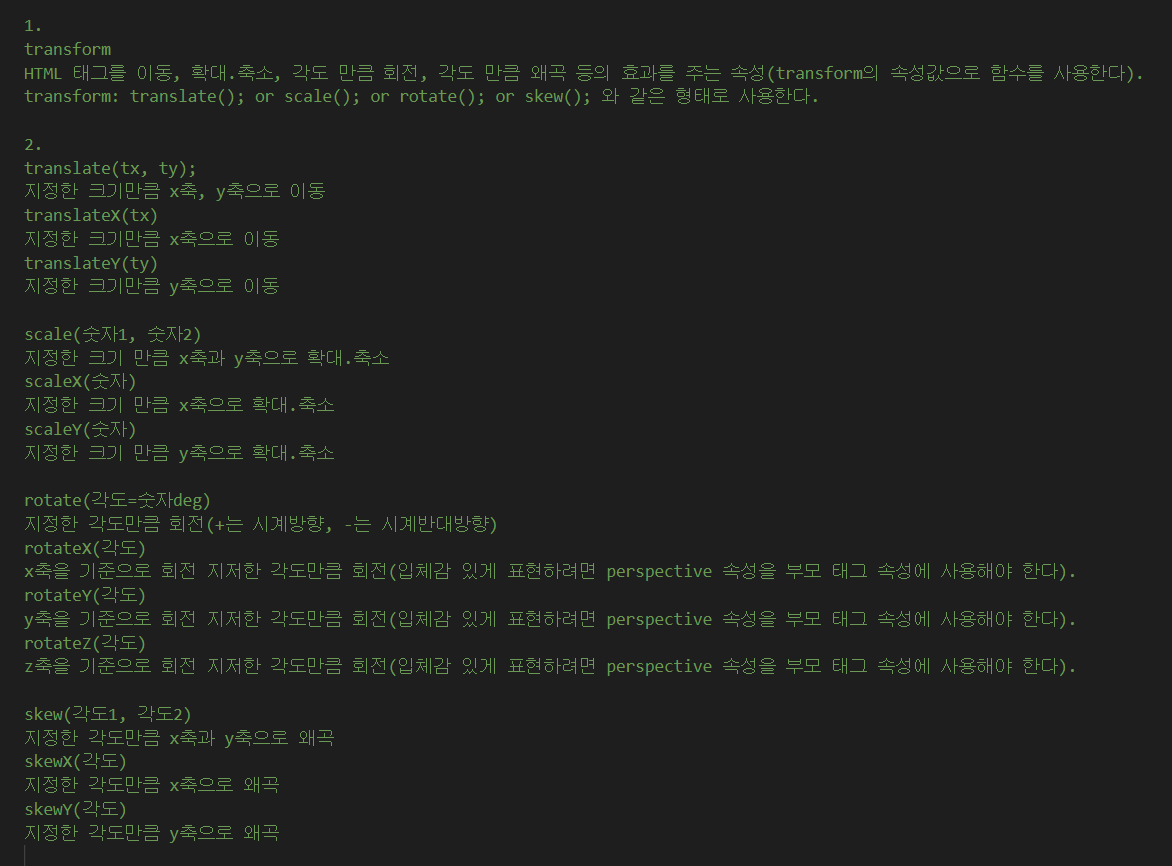
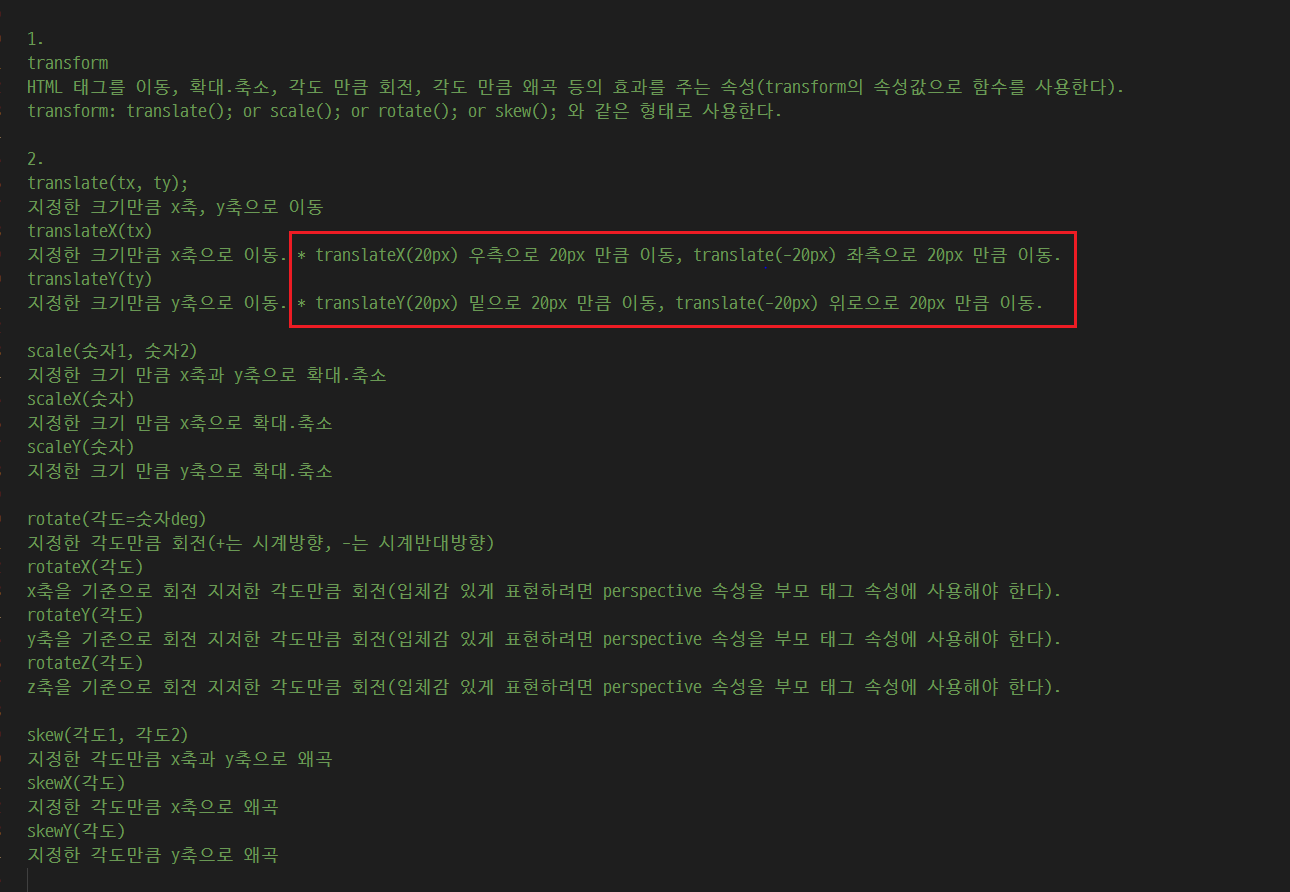
study

diff --git a/02 CSS/15 transform, transition/00 transform.html b/02 CSS/15 transform, transition/00 transform.html
@@ -56,9 +56,9 @@ transform: translate(); or scale(); or rotate(); or skew(); 와 같은 형태로
 translate(tx, ty);
 지정한 크기만큼 x축, y축으로 이동
 translateX(tx)
-지정한 크기만큼 x축으로 이동
+지정한 크기만큼 x축으로 이동. * translateX(20px) 우측으로 20px 만큼 이동, translate(-20px) 좌측으로 20px 만큼 이동.
 translateY(ty)
-지정한 크기만큼 y축으로 이동
+지정한 크기만큼 y축으로 이동. * translateY(20px) 밑으로 20px 만큼 이동, translate(-20px) 위로으로 20px 만큼 이동.
 
 scale(숫자1, 숫자2)
 지정한 크기 만큼 x축과 y축으로 확대.축소
